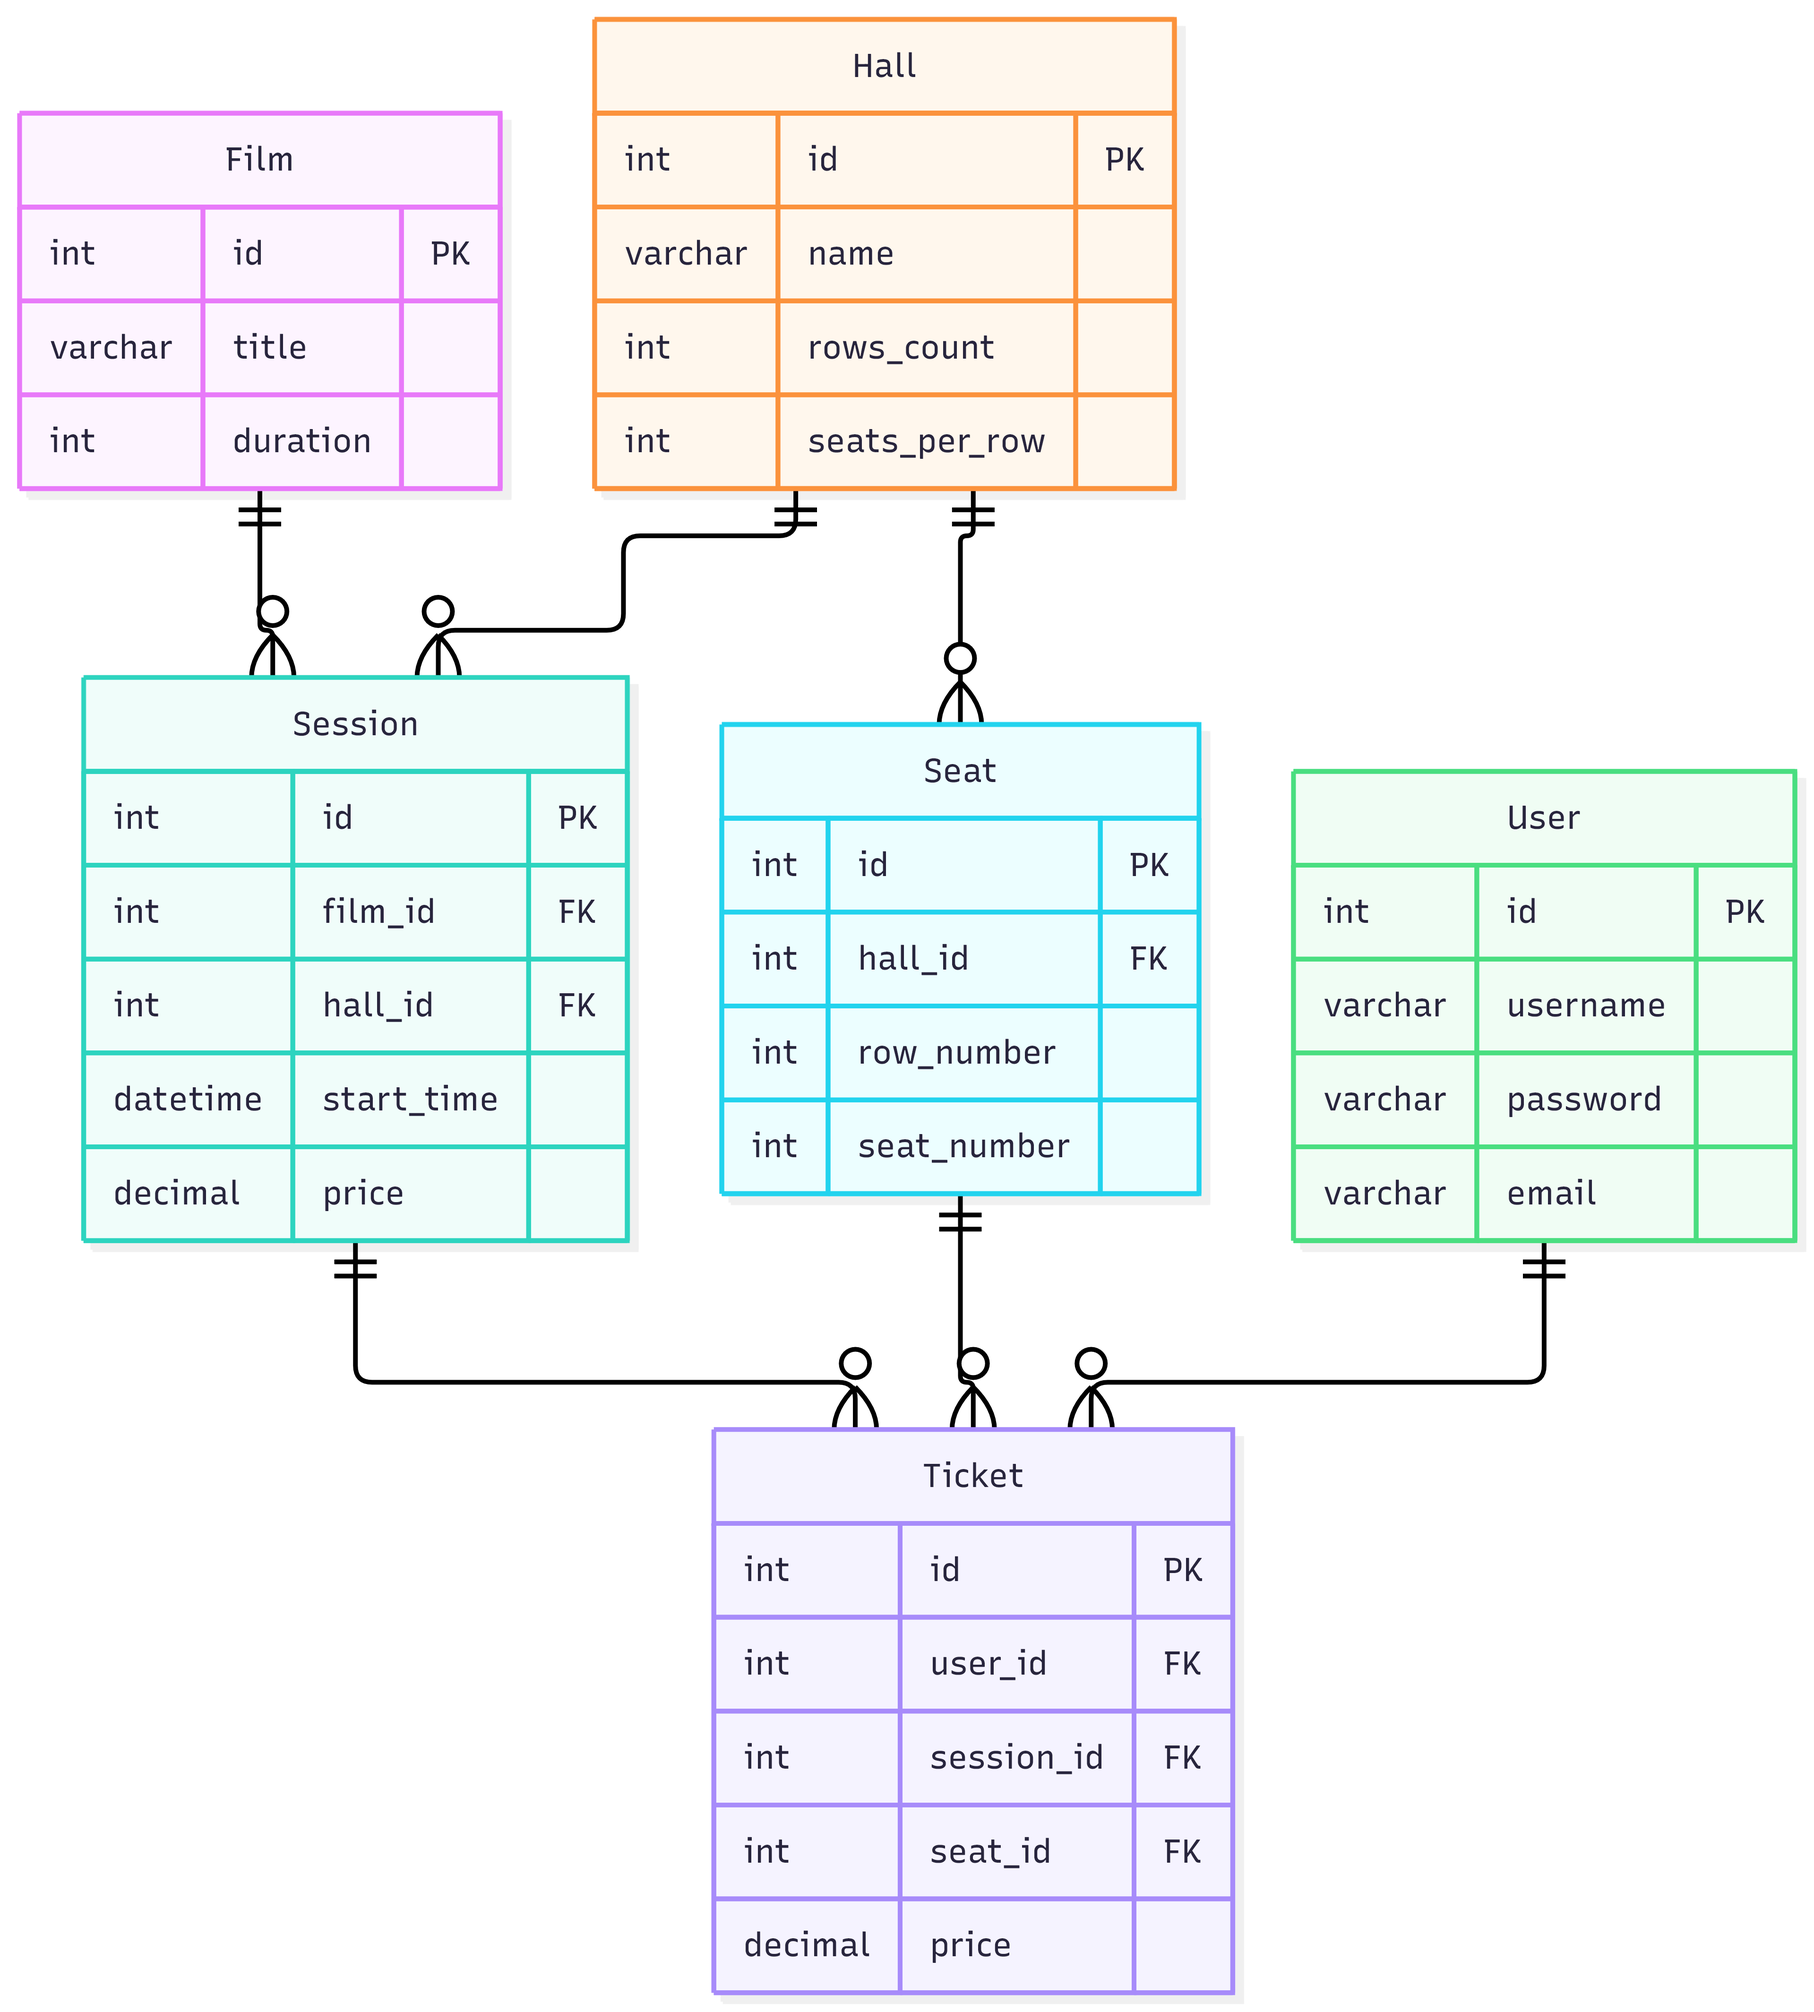
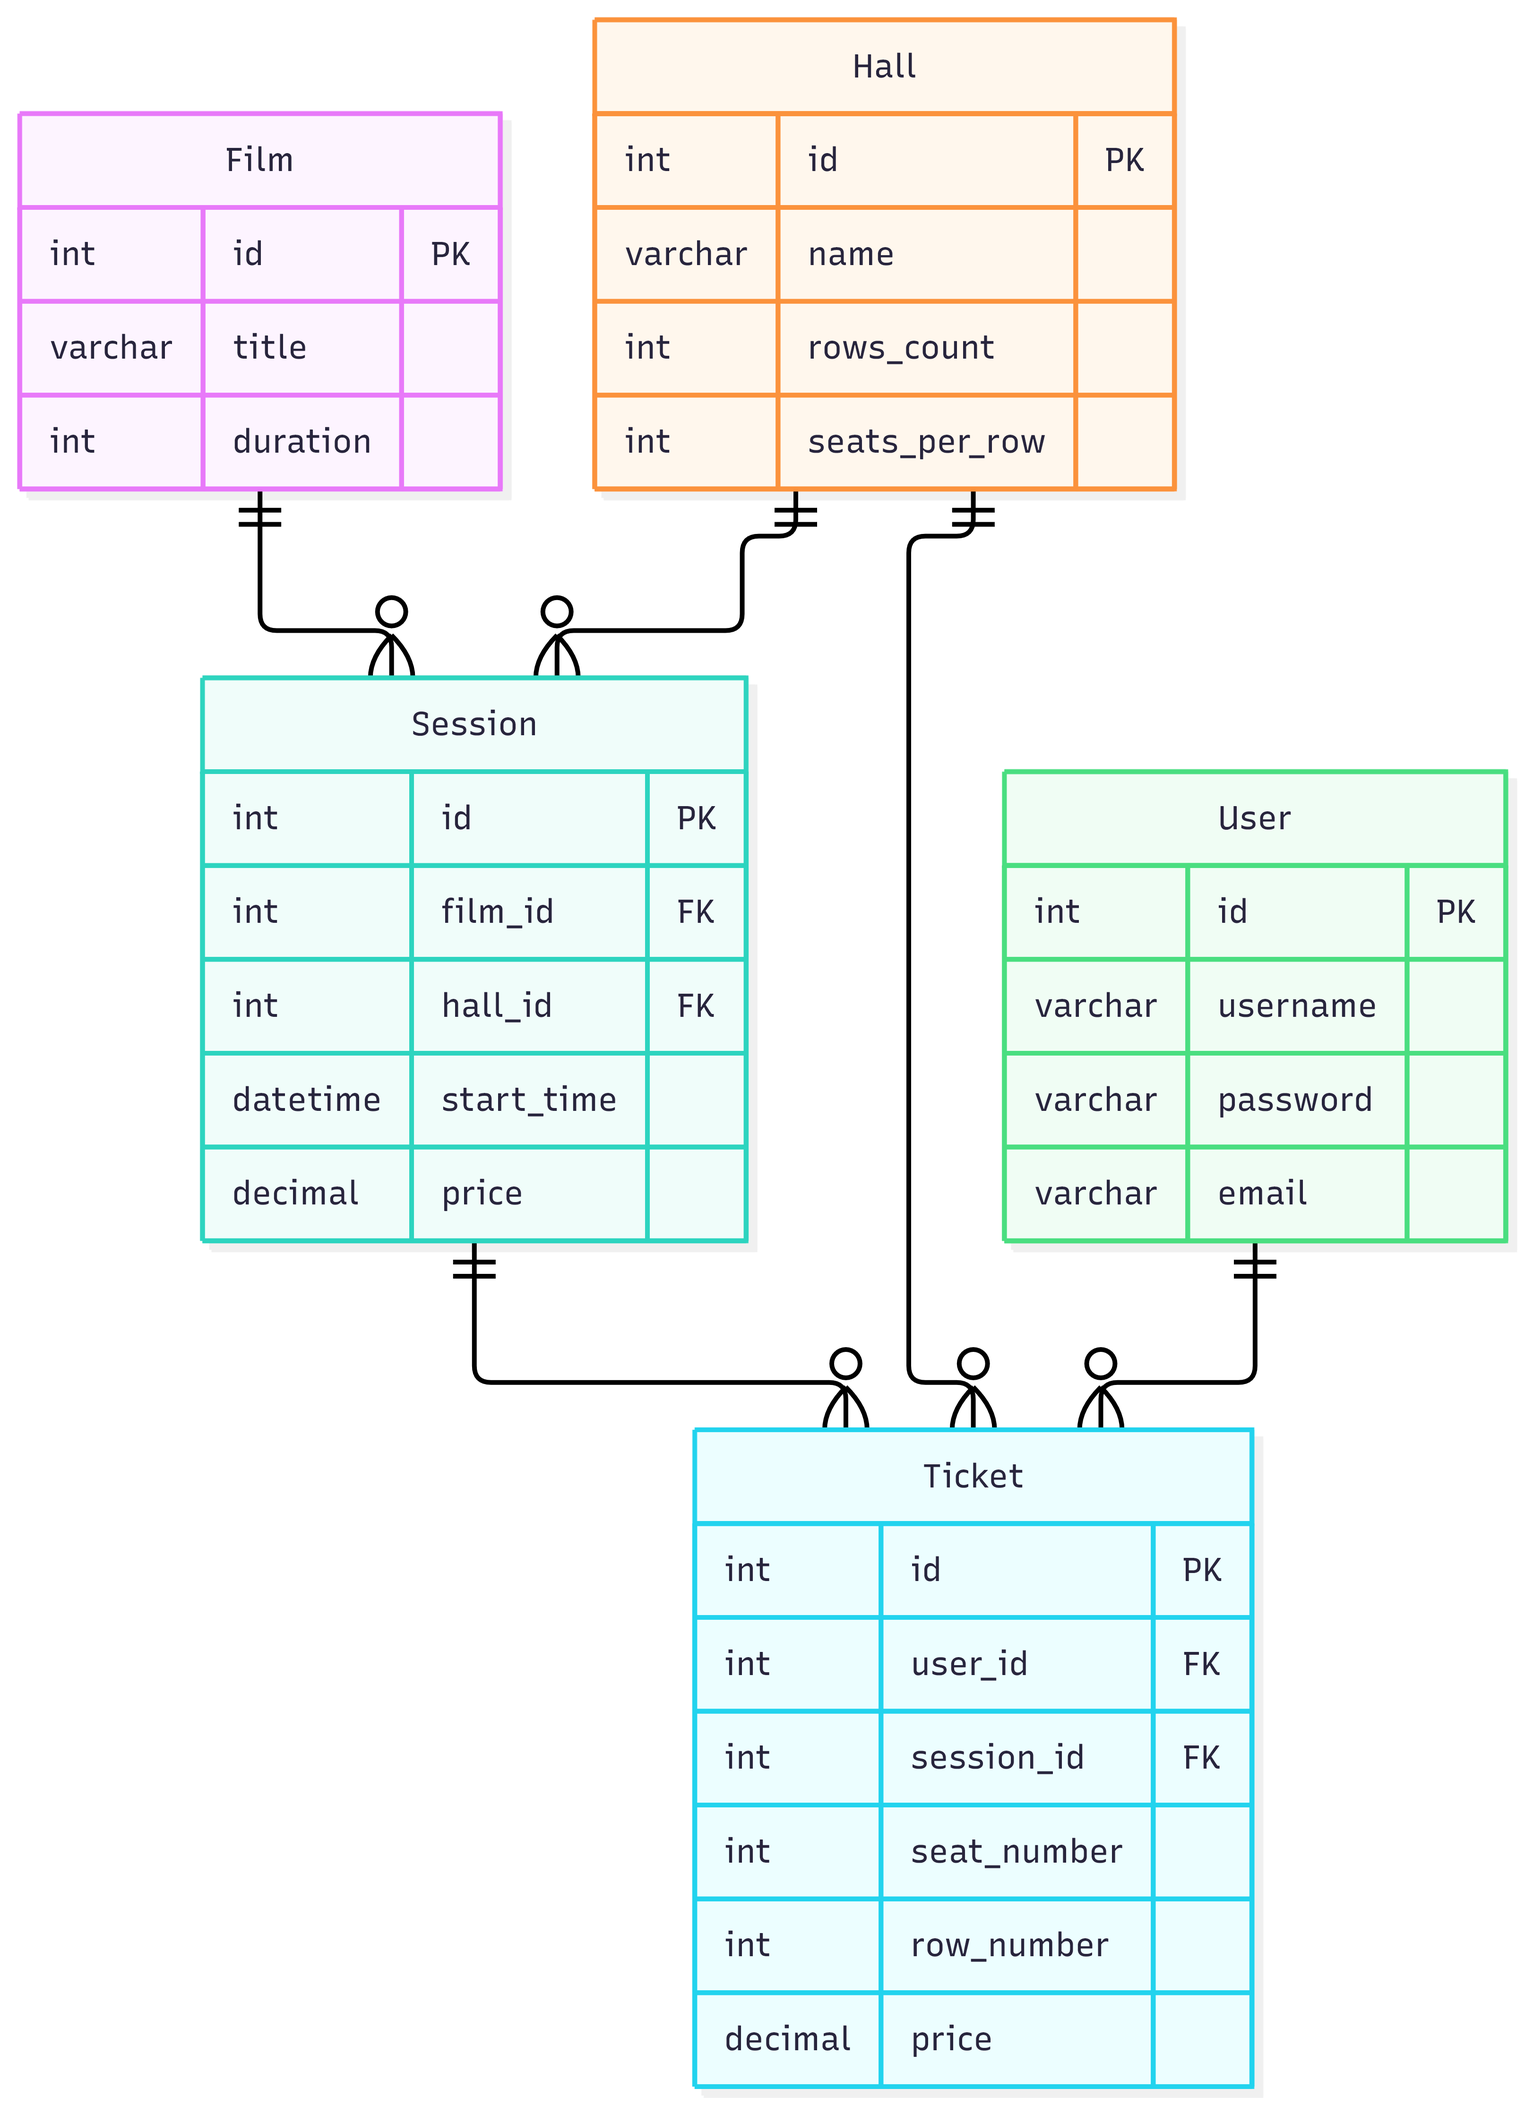
db_

Changed region(s): [[0.0, 0.0, 0.9916, 0.9995], [0.7437, 0.0, 0.7747, 0.2499]]

diff --git a/src/init_db.py b/src/init_db.py
@@ -1,6 +1,6 @@
 import sqlite3
 
-# Создание базы данных (файл)
+# Создание базы данных
 conn = sqlite3.connect('DB.db')
 cursor = conn.cursor()
 
@@ -34,15 +34,6 @@ CREATE TABLE IF NOT EXISTS Session (
 )
 ''')
 cursor.execute('''
-CREATE TABLE IF NOT EXISTS Seat (
-    id INTEGER PRIMARY KEY AUTOINCREMENT,
-    hall_id INTEGER NOT NULL,
-    row_number INTEGER,
-    seat_number INTEGER,
-    FOREIGN KEY (hall_id) REFERENCES Hall (id)
-)
-''')
-cursor.execute('''
 CREATE TABLE IF NOT EXISTS User (
     id INTEGER PRIMARY KEY AUTOINCREMENT,
     username VARCHAR,
@@ -55,11 +46,11 @@ CREATE TABLE IF NOT EXISTS Ticket (
     id INTEGER PRIMARY KEY AUTOINCREMENT,
     user_id INTEGER,
     session_id INTEGER,
-    seat_id INTEGER,
     price DECIMAL,
+    row_number INTEGER,
+    seat_number INTEGER,
     FOREIGN KEY (user_id) REFERENCES User (id),
-    FOREIGN KEY (session_id) REFERENCES Session (id),
-    FOREIGN KEY (seat_id) REFERENCES Seat (id)
+    FOREIGN KEY (session_id) REFERENCES Session (id)
 )
 ''')
 
@@ -68,12 +59,22 @@ CREATE TABLE IF NOT EXISTS Ticket (
 
 
 # Добавление записи
-cursor.execute("INSERT INTO Film (title,duration) VALUES ('HUY',6)")
-cursor.execute("INSERT INTO Hall (name,rows_count,seats_per_row) VALUES ('hz',15,10)")
-cursor.execute("INSERT INTO Seat (hall_id,row_number,seat_number) VALUES (1,3,6)")
-cursor.execute("INSERT INTO User (username,password,email) VALUES ('Pizda','fgdfgdf','pizda@email.com')")
-cursor.execute("INSERT INTO Session (film_id,hall_id,start_time,price) VALUES (1,1,'4434-12-31',6)")
-cursor.execute("INSERT INTO Ticket (user_id,session_id,seat_id,price) VALUES (1,1,1,6)")
+cursor.execute("INSERT INTO Film (title,duration) VALUES ('Cheburashka_2',92)")
+cursor.execute("INSERT INTO Film (title,duration) VALUES ('Spider-Man:_Brand_New_Day',145)")
+
+cursor.execute("INSERT INTO Hall (name,rows_count,seats_per_row) VALUES ('Hall_1',15,10)")
+
+cursor.execute("INSERT INTO User (username,password,email) VALUES ('Elena','fgdfgdf','lena@email.com')")
+cursor.execute("INSERT INTO User (username,password,email) VALUES ('Alexey','sjsjser','alex@email.com')")
+cursor.execute("INSERT INTO User (username,password,email) VALUES ('Nikolay','wedfghnj','kolyan@gmail.com')")
+
+cursor.execute("INSERT INTO Session (film_id,hall_id,start_time,price) VALUES (1,1,'2022-12-31',99999.99)")
+cursor.execute("INSERT INTO Session (film_id,hall_id,start_time,price) VALUES (2,1,'2023-01-05',1000)")
+
+cursor.execute("INSERT INTO Ticket (user_id,session_id,price,row_number,seat_number) VALUES (1,1,100000,2,4)")
+cursor.execute("INSERT INTO Ticket (user_id,session_id,price,row_number,seat_number) VALUES (1,2,50000,1,5)")
+cursor.execute("INSERT INTO Ticket (user_id,session_id,price,row_number,seat_number) VALUES (2,2,2000.45,15,3)")
+cursor.execute("INSERT INTO Ticket (user_id,session_id,price,row_number,seat_number) VALUES (3,2,2000.45,15,5)")
 
 
 # Сохранение изменений и закрытие соединения
